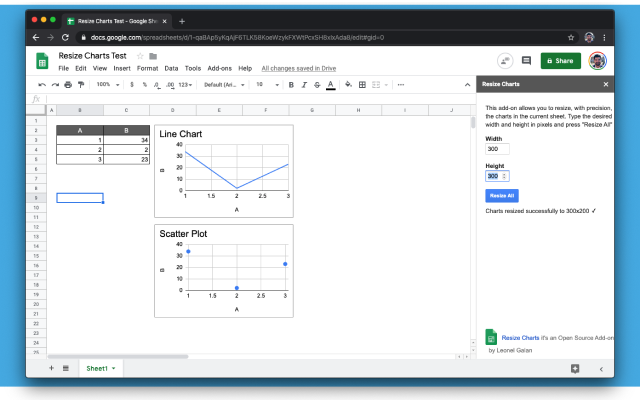
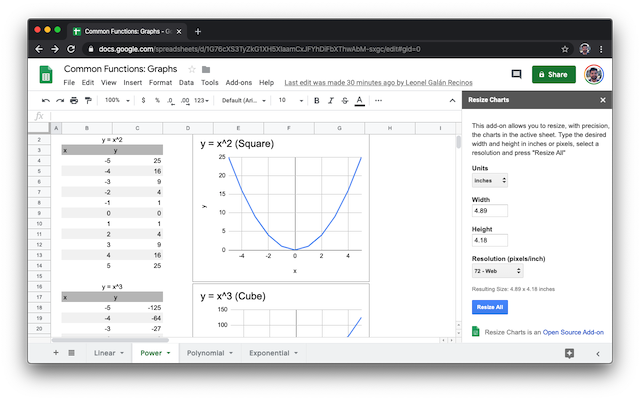
Update addon's info, links and screenshot.

diff --git a/pages/resize-charts-privacy.md b/pages/resize-charts-privacy.md
@@ -6,13 +6,13 @@ permalink: /resize-charts/privacy
 
 # Privacy Policy for Resize Charts
 
-At Resize Charts, accessible as an add-on in the G Suite Marketplace, one of our main priorities is the privacy of our users. **We do not collect user information and the add-on is [open sourced](https://github.com/leonelgalan/resize_charts) for anyone to review.**
+At Resize Charts, accessible as an add-on in the G Suite Marketplace, one of our main priorities is the privacy of our users. **We do not collect user information or data, and the add-on is [open sourced](https://github.com/leonelgalan/resize_charts) for anyone to review.**
 
 If you have additional questions or require more information about our Privacy Policy, do not hesitate to contact us.
 
 ## Log Files
 
-Resize Charts does not log user information. It's our understanding that some stats such as executions, completed or failed are logged by the Google Apps Script platform.
+Resize Charts does not log user information or data. For debugging purposes, it might log runtime information, such as the authorization mode in which functions run. It's our understanding that some stats such as executions, completed or failed are logged by the Google Apps Script platform.
 
 ## Third Party Privacy Policies
 

diff --git a/pages/resize-charts.md b/pages/resize-charts.md
@@ -4,10 +4,10 @@ title: Resize Charts
 permalink: /resize-charts
 ---
 
+This add-on allows you to resize, with precision, the charts in the active sheet. Type the desired width and height in inches or pixels, select a resolution and press "Resize All"
 
-
-This add-on allows you to resize, with precision, the charts in the current sheet. Type the desired width and height in pixels and press "Resize All"
-
+* [G Suite Marketplace](https://gsuite.google.com/marketplace/app/resize_charts/10131240662)
+* [Issues/Feedback](https://forms.gle/dAjhHCvZjG3PL7mj7)
 * Source Code: [Github](https://github.com/leonelgalan/resize_charts)
 * [Privacy Policy](/resize-charts/privacy)
 
